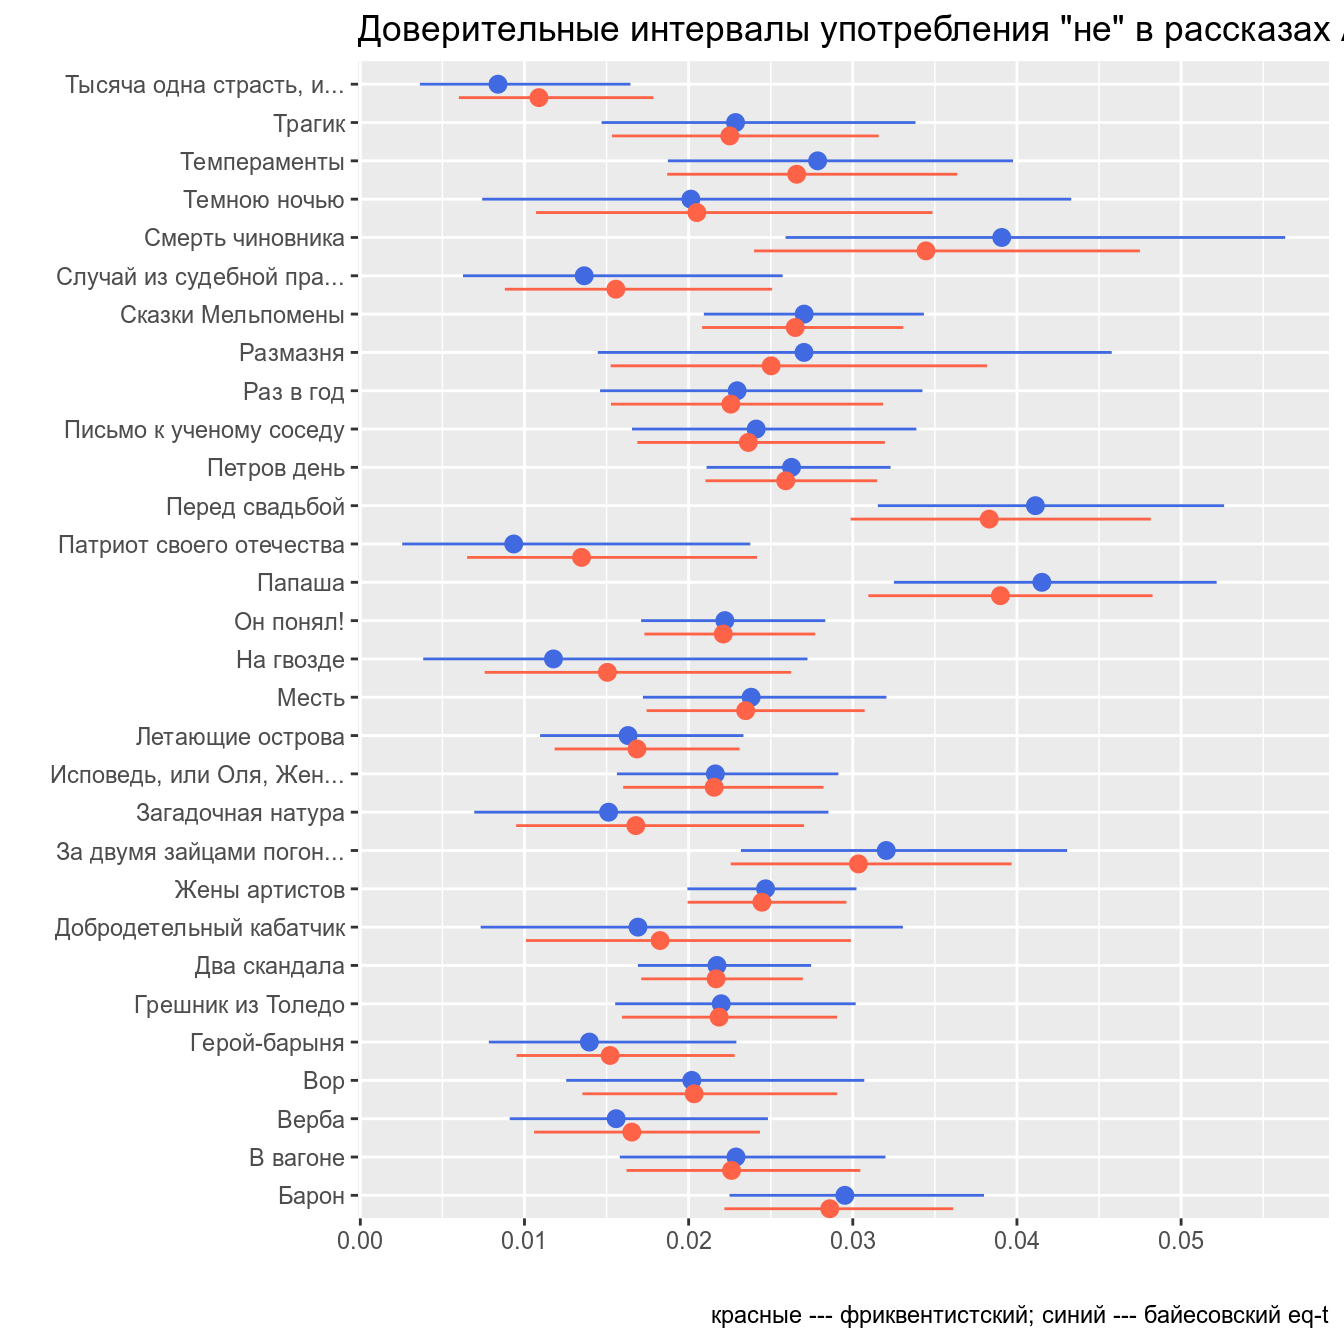
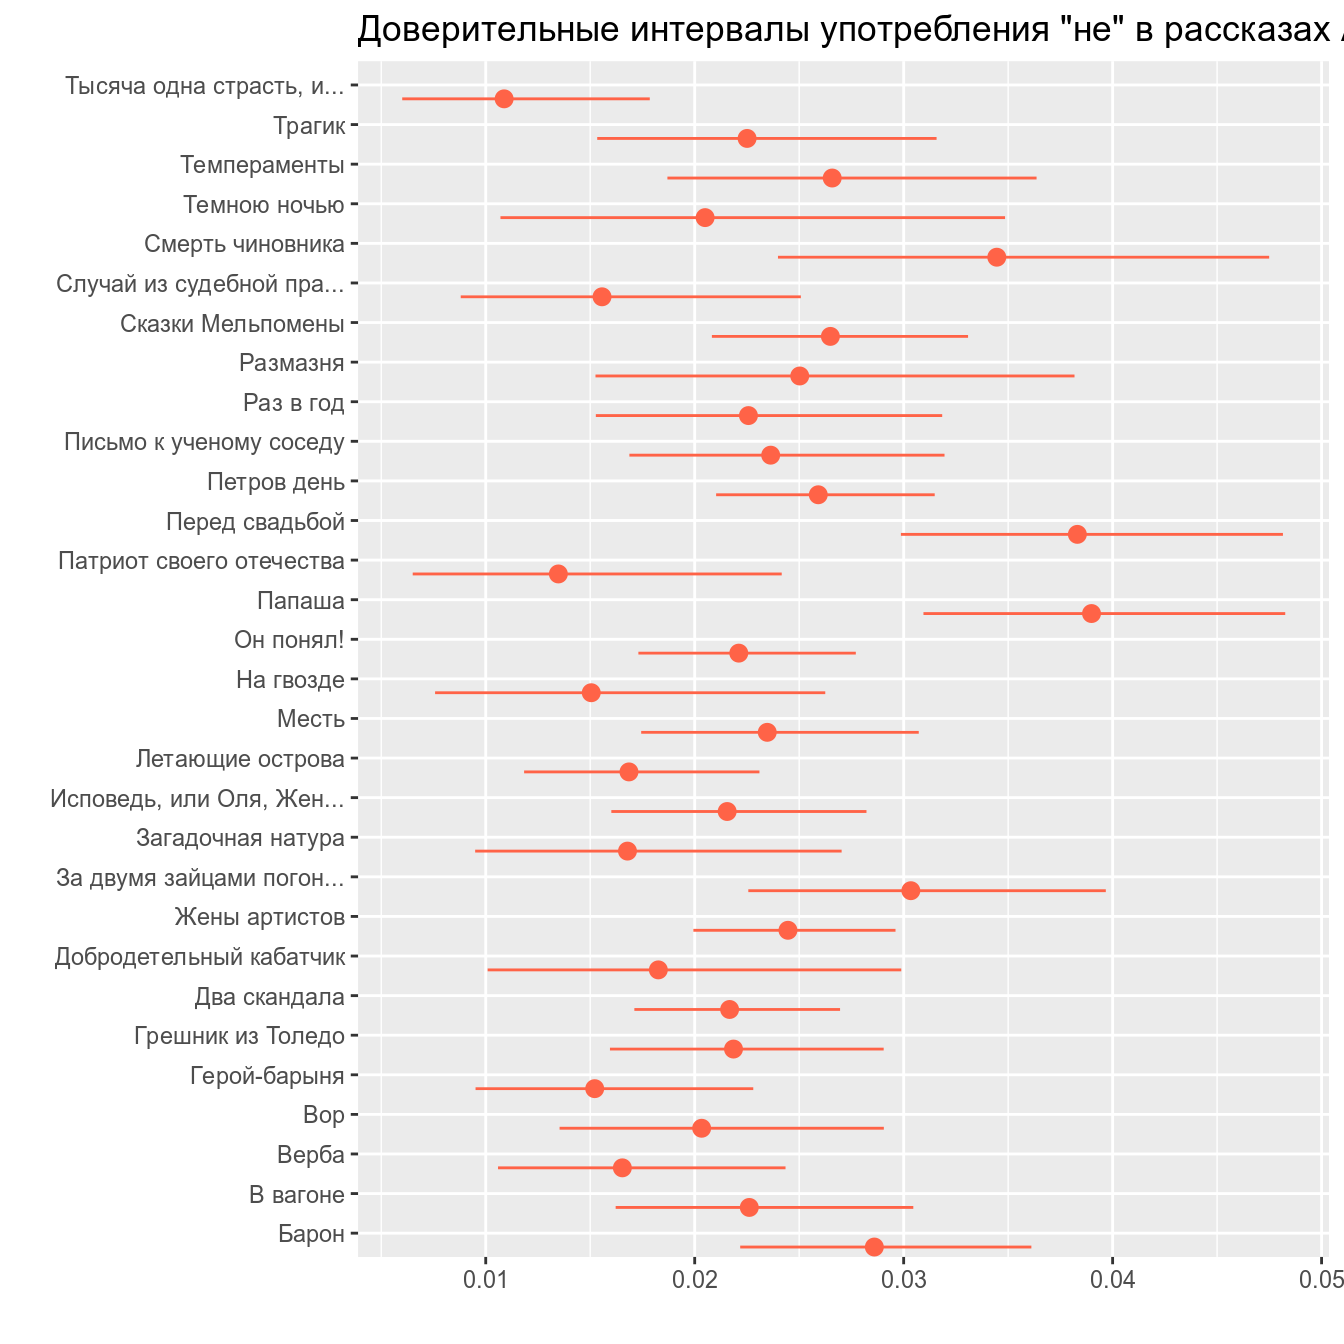
commit Lab 7

diff --git a/docs/Lab_7.html b/docs/Lab_7.html
@@ -453,16 +453,12 @@ $(document).ready(function () {
          beta_post = beta_prior + 231.6328,
          median_post = qbeta(.5, alpha_post, beta_post),
          eq_t_int_l = qbeta(.025, alpha_post, beta_post),
-         eq_t_int_h = qbeta(.975, alpha_post, beta_post),
-         low_ci = mosaic::binom.test(x = n, n = n_words)$conf.int[1],
-         up_ci = mosaic::binom.test(x = n, n = n_words)$conf.int[2]) %&gt;% 
+         eq_t_int_h = qbeta(.975, alpha_post, beta_post)) %&gt;% 
   ggplot(aes(x= trunc_titles))+
-  geom_pointrange(aes(y = average, ymin = low_ci, ymax = up_ci), color = &quot;royalblue&quot;)+
   geom_pointrange(aes(y = median_post, ymin = eq_t_int_l, ymax = eq_t_int_h), color = &quot;tomato&quot;, position = position_nudge(x = -0.35))+
   coord_flip()+
   labs(title = &#39;Доверительные интервалы употребления &quot;не&quot; в рассказах А. Чехова&#39;,
-       x = &quot;&quot;, y = &quot;&quot;,
-       caption = &quot;красные --- фриквентистский; синий --- байесовский eq-t&quot;)</code></pre>
+       x = &quot;&quot;, y = &quot;&quot;)</code></pre>
 <p><img src="Lab_7_files/figure-html/unnamed-chunk-10-1.png" width="672" /></p>
 </div>
 <div id="----highest-posterior-density-interval---hdi" class="section level3">
@@ -479,17 +475,13 @@ chekhov %&gt;%
          hdi_int_l = hdi(qbeta, shape1 = alpha_post, shape2 = beta_post, credMass = 0.95)[1],
          hdi_int_h = hdi(qbeta, shape1 = alpha_post, shape2 = beta_post, credMass = 0.95)[2],
          eq_t_int_l = qbeta(.025, alpha_post, beta_post),
-         eq_t_int_h = qbeta(.975, alpha_post, beta_post),
-         low_ci = mosaic::binom.test(x = n, n = n_words)$conf.int[1],
-         up_ci = mosaic::binom.test(x = n, n = n_words)$conf.int[2]) %&gt;% 
+         eq_t_int_h = qbeta(.975, alpha_post, beta_post)) %&gt;% 
   ggplot(aes(x= trunc_titles))+
-  geom_pointrange(aes(y = average, ymin = low_ci, ymax = up_ci), color = &quot;royalblue&quot;, position = position_nudge(x = 0.25))+
   geom_pointrange(aes(y = median_post, ymin = eq_t_int_l, ymax = eq_t_int_h), color = &quot;tomato&quot;)+
   geom_pointrange(aes(y = moda_post, ymin = hdi_int_l, ymax = hdi_int_h), color = &quot;palegreen3&quot;, position = position_nudge(x = -0.25))+
   coord_flip()+
   labs(title = &#39;Доверительные интервалы употребления &quot;не&quot; в рассказах А. Чехова&#39;,
-       x = &quot;&quot;, y = &quot;&quot;,
-       caption = &quot;красные --- фриквентистский; синий --- байесовский eq-t; зеленый --- байсовский hdi&quot;)</code></pre>
+       x = &quot;&quot;, y = &quot;&quot;)</code></pre>
 <p><img src="Lab_7_files/figure-html/unnamed-chunk-11-1.png" width="672" /></p>
 <p>В качестве аргумента в пользу HDI всегда приводят вот такое распределение:</p>
 <p><img src="datasets/HDIbimodal.jpg" /></p>
